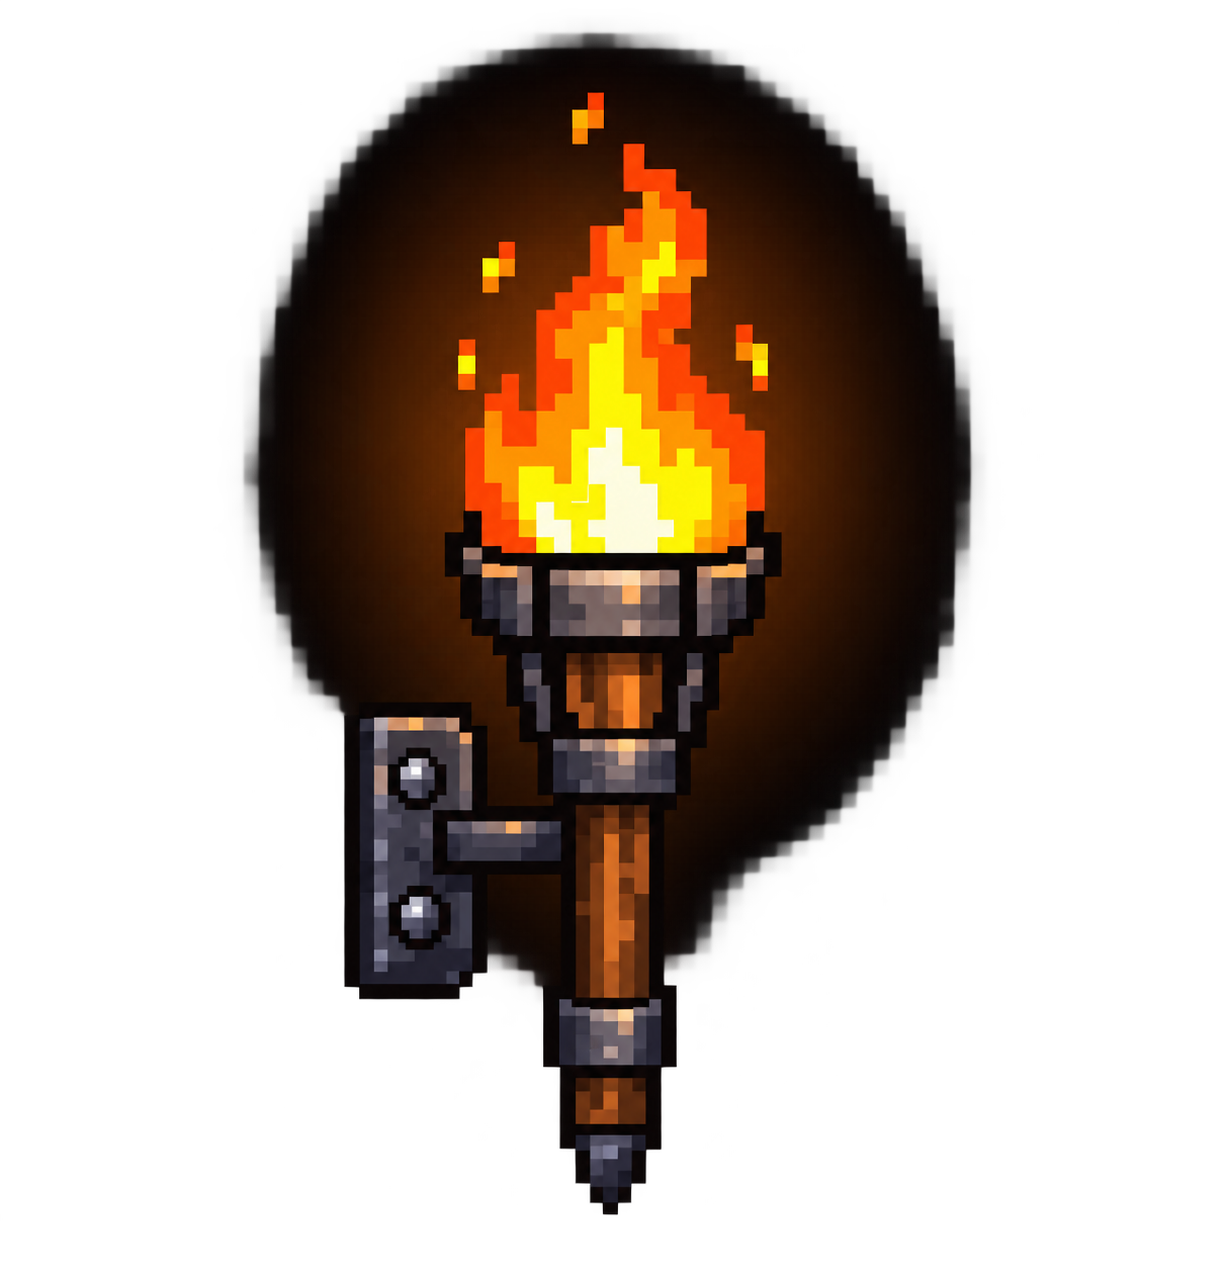
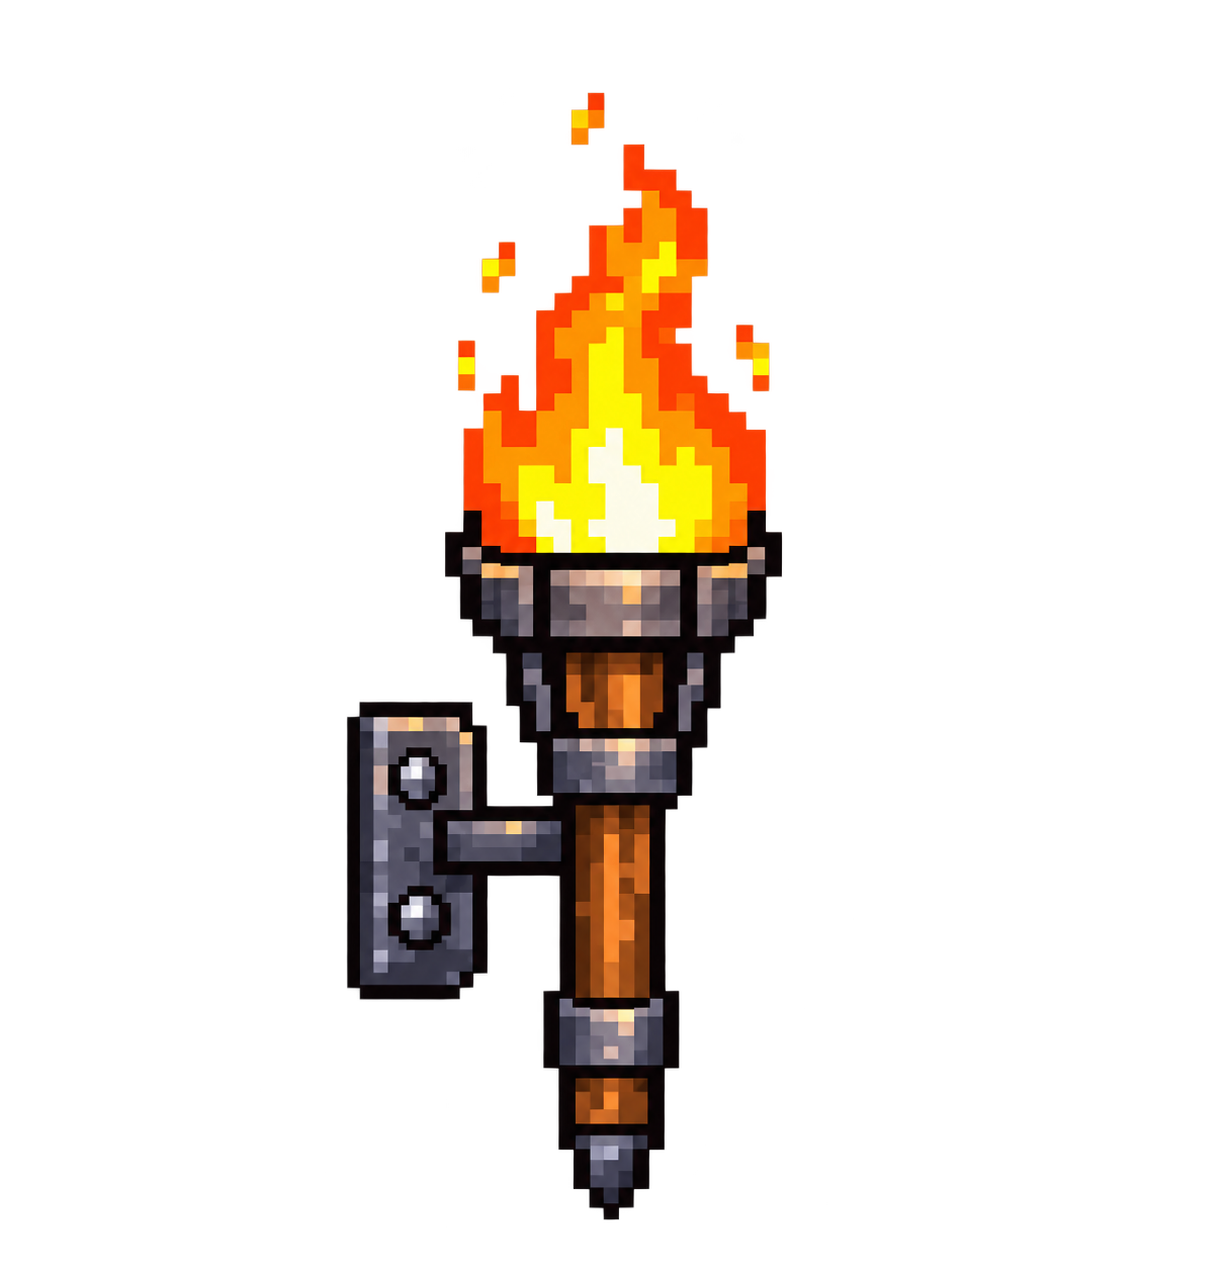
Clean up dungeon torch glow

Changed region(s): [[0.1854, 0.0, 0.8033, 0.946]]

diff --git a/src/scenes/DungeonScene.ts b/src/scenes/DungeonScene.ts
@@ -72,10 +72,10 @@ export class DungeonScene extends Phaser.Scene {
       const texture = this.textures.createCanvas(glowKey, 512, 512)!;
       const context = texture.getContext();
       const gradient = context.createRadialGradient(256, 256, 0, 256, 256, 256);
-      gradient.addColorStop(0, 'rgba(255, 180, 70, 0.32)');
-      gradient.addColorStop(0.25, 'rgba(255, 140, 45, 0.18)');
-      gradient.addColorStop(0.6, 'rgba(235, 100, 25, 0.06)');
-      gradient.addColorStop(1, 'rgba(235, 100, 25, 0)');
+      gradient.addColorStop(0, 'rgba(255, 200, 115, 0.18)');
+      gradient.addColorStop(0.3, 'rgba(255, 165, 75, 0.08)');
+      gradient.addColorStop(0.65, 'rgba(255, 145, 65, 0.01)');
+      gradient.addColorStop(1, 'rgba(255, 145, 65, 0)');
       context.fillStyle = gradient;
       context.fillRect(0, 0, 512, 512);
       texture.refresh();
@@ -88,14 +88,15 @@ export class DungeonScene extends Phaser.Scene {
       { x: 1090, y: 370 },
     ];
     positions.forEach(({ x, y }, index) => {
-      const glow = this.add.image(x, y, glowKey).setDepth(-2);
+      const glow = this.add.image(x, y, glowKey)
+        .setScale(0.62).setBlendMode(Phaser.BlendModes.ADD).setDepth(-2);
       this.add.image(x, y, 'fire').setOrigin(0.6, 0.3).setScale(0.12).setDepth(-1);
       // Независимое мерцание света; сам настенный факел остаётся неподвижным.
       this.tweens.add({
         targets: glow,
-        alpha: 0.72,
-        scaleX: 0.94,
-        scaleY: 0.96,
+        alpha: 0.85,
+        scaleX: 0.6,
+        scaleY: 0.61,
         duration: 380 + index * 97,
         ease: 'Sine.easeInOut',
         yoyo: true,
